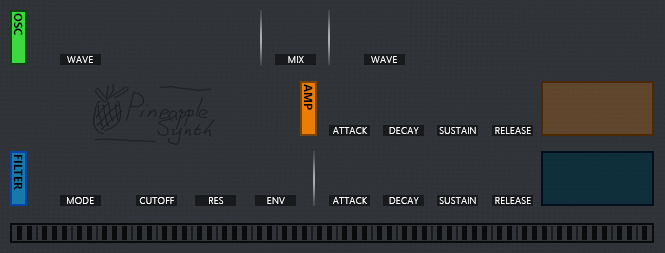
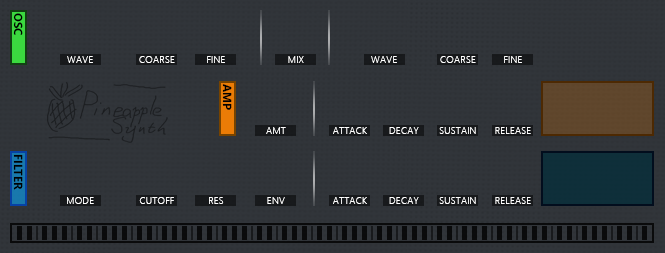
bg update, add coarse and fine knob, also amp amount knob (but don't work for now.)

Changed region(s): [[0.3308, 0.3043, 0.4812, 0.5534], [0.6316, 0.1937, 0.812, 0.2767], [0.1805, 0.1937, 0.3609, 0.2767]]

diff --git a/Synthesis.cpp b/Synthesis.cpp
@@ -17,8 +17,13 @@ enum EAdsr
 enum EParams
 {
 	mOsc1Waveform = 0,
+	mOsc1Coarse,
+	mOsc1Fine,
 	mOsc2Waveform,
+	mOsc2Coarse,
+	mOsc2Fine,
 	mOscillatorMix,
+	mAmpAmount,
 	mAttack,
 	mDecay,
 	mSustain,
@@ -76,15 +81,40 @@ Synthesis::Synthesis(IPlugInstanceInfo instanceInfo)
 	IBitmap waveformBitmap = pGraphics->LoadIBitmap(WAVEFORM_ID, WAVEFORM_FN, 5);
 	pGraphics->AttachControl(new ISwitchControl(this, 42, kGreenRow + kSwitcherTopPadding, mOsc1Waveform, &waveformBitmap));
 
+	// OSC1 Coarse knob:
+	GetParam(mOsc1Coarse)->InitInt("Coarse1", 0, -24, 24);
+	GetParam(mOsc1Coarse)->SetShape(1);
+	pGraphics->AttachControl(new IKnobMultiControl(this, 136, kGreenRow, mOsc1Coarse, &greenKnobCenterBitmap));
+
+	// OSC1 Fine knob:
+	GetParam(mOsc1Fine)->InitDouble("Fine1", 0.0, -1.0, 1.0, 0.01);
+	GetParam(mOsc1Fine)->SetShape(1);
+	pGraphics->AttachControl(new IKnobMultiControl(this, 195, kGreenRow, mOsc1Fine, &greenKnobCenterBitmap));
+
 	// OSC2 Waveform switch
 	GetParam(mOsc2Waveform)->InitEnum("Waveform2", Oscillator::OSCILLATOR_MODE_SINE, Oscillator::kNumOscillatorModes);
 	GetParam(mOsc2Waveform)->SetDisplayText(0, "Sine"); // Needed for VST3, thanks plunntic
 	pGraphics->AttachControl(new ISwitchControl(this, 346, kGreenRow + kSwitcherTopPadding, mOsc2Waveform, &waveformBitmap));
+
+	// OSC2 Coarse knob:
+	GetParam(mOsc2Coarse)->InitInt("Coarse2", 0, -24, 24);
+	GetParam(mOsc2Coarse)->SetShape(1);
+	pGraphics->AttachControl(new IKnobMultiControl(this, 437, kGreenRow, mOsc2Coarse, &greenKnobCenterBitmap));
+
+	// OSC2 Fine knob:
+	GetParam(mOsc2Fine)->InitDouble("Fine2", 0.0, -1.0, 1.0, 0.01);
+	GetParam(mOsc2Fine)->SetShape(1);
+	pGraphics->AttachControl(new IKnobMultiControl(this, 491, kGreenRow, mOsc2Fine, &greenKnobCenterBitmap));
 	
 	// mOscillatorMix
 	GetParam(mOscillatorMix)->InitDouble("Osc Mix", 0.0, 0.0, 1.0, 0.001);
 	GetParam(mOscillatorMix)->SetShape(1);
 	pGraphics->AttachControl(new IKnobMultiControl(this, 275, kGreenRow, mOscillatorMix, &greenKnobCenterBitmap));
+
+	// Amp amount knob:
+	GetParam(mAmpAmount)->InitDouble("Amp Amount", 50., 0., 100.0, 0.01, "%");
+	GetParam(mAmpAmount)->SetShape(2);
+	pGraphics->AttachControl(new IKnobMultiControl(this, 255, kOrangeRow, mAmpAmount, &orangeKnobBitmap));
 
 	// Attack knob:
 	ampAdsrKnobs[E_Att] = new IKnobMultiControl(this, 329, kOrangeRow, mAttack, &orangeKnobBitmap);
@@ -210,7 +240,7 @@ void Synthesis::OnParamChange(int paramIdx)
 	case mDecay:
 	case mSustain:
 	case mRelease:
-		voiceManager.setAmpEnvStageValueForEachVoice(static_cast<EnvelopeGenerator::EnvelopeStage>(paramIdx - 2), GetParam(paramIdx)->Value());
+		voiceManager.setAmpEnvStageValueForEachVoice(static_cast<EnvelopeGenerator::EnvelopeStage>(paramIdx - mAttack + 1), GetParam(paramIdx)->Value());
 		ampAdsrVisualization->setADSR(ampAdsrKnobs[E_Att]->GetValue(), ampAdsrKnobs[E_Dec]->GetValue(),
 			ampAdsrKnobs[E_Sus]->GetValue(), ampAdsrKnobs[E_Rel]->GetValue());
 		//ampAdsrVisualization->setADSR(ampAdsrKnobs[E_Att]->GetValue, ampAdsrKnobs[E_Dec]->GetValue, ampAdsrKnobs[E_Sus]->GetValue, ampAdsrKnobs[E_Rel]->GetValue);
@@ -228,7 +258,7 @@ void Synthesis::OnParamChange(int paramIdx)
 	case mFilterDecay:
 	case mFilterSustain:
 	case mFilterRelease:
-		voiceManager.setFilterEnvStageValueForEachVoice(static_cast<EnvelopeGenerator::EnvelopeStage>(paramIdx - 9), GetParam(paramIdx)->Value());
+		voiceManager.setFilterEnvStageValueForEachVoice(static_cast<EnvelopeGenerator::EnvelopeStage>(paramIdx - mFilterAttack + 1), GetParam(paramIdx)->Value());
 		filterEnvAdsrVisualization->setADSR(filterAdsrKnobs[E_Att]->GetValue(), filterAdsrKnobs[E_Dec]->GetValue(),
 			filterAdsrKnobs[E_Sus]->GetValue(), filterAdsrKnobs[E_Rel]->GetValue());
 		break;
